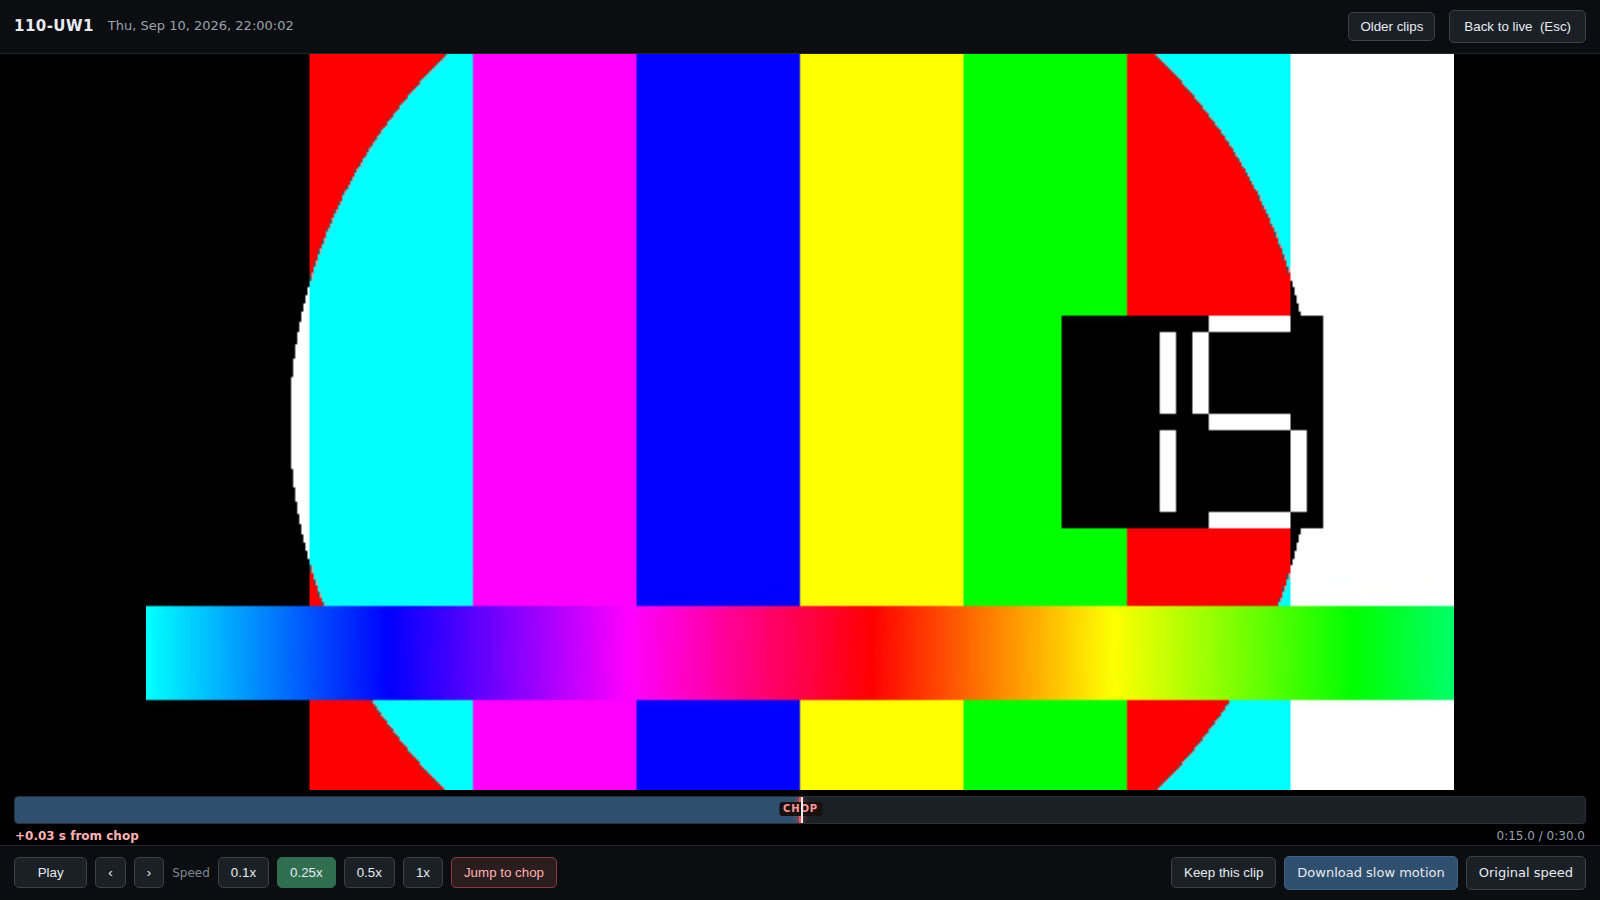
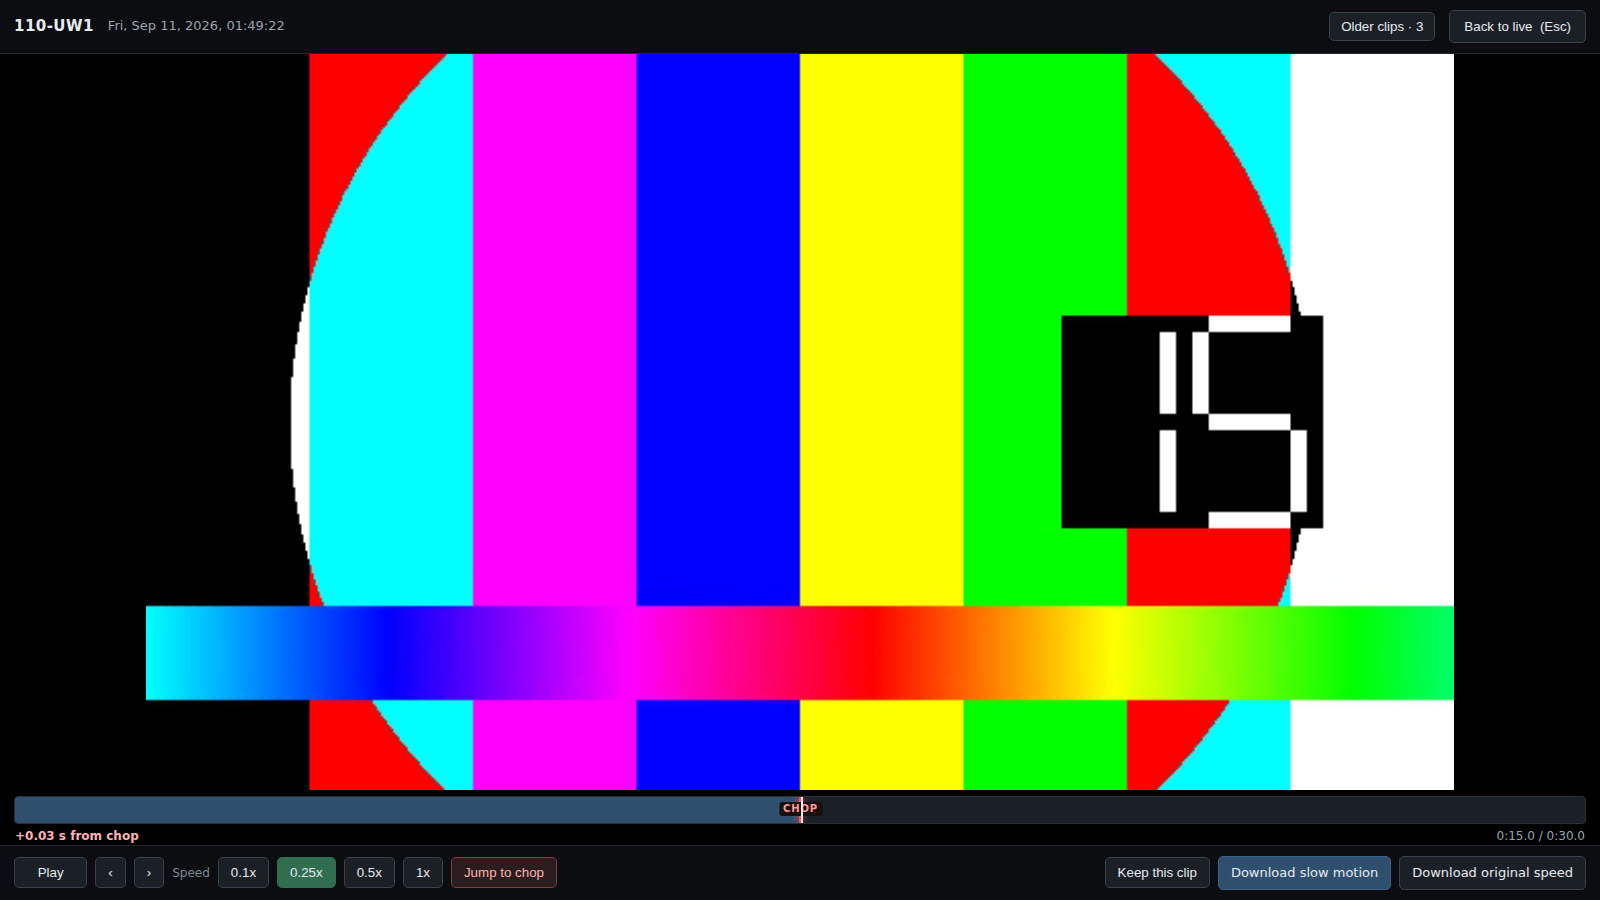
One button per tile, and label the download as a download
Two fixes from review.

"Original speed" sat directly after the 0.1x/0.25x/0.5x/1x row and read
as a fifth playback speed rather than a download. It now says "Download
original speed", matching the button beside it.

The tile's second button is gone. It was added at the same time as the
clip list and never appeared in the wall screenshots, so wall-layouts.md
described two buttons over images showing one -- and the tile bar has to
stay readable from across a room, which a second button works against.
Older clips are reached from inside the player, where you already are
once you have opened one; that button now carries the count, since it is
the only way in. The clip list also starts closed rather than depending
on which button opened the player.

Player screenshots regenerated. The wall screenshots were already correct
and are unchanged.

Changed region(s): [[0.6875, 0.9333, 0.9375, 0.9956], [0.0625, 0.0, 0.1875, 0.0311], [0.8438, 0.0, 0.875, 0.0622]]

diff --git a/aggregator/wall.py b/aggregator/wall.py
@@ -869,7 +869,7 @@ _PAGE = """<!doctype html>
       <span id="pspacer2" style="flex:1 1 auto"></span>
       <button class="keep" id="pkeep" type="button">Keep this clip</button>
       <a class="dl primary" id="pdlslow" href="#">Download slow motion</a>
-      <a class="dl" id="pdlorig" href="#">Original speed</a>
+      <a class="dl" id="pdlorig" href="#">Download original speed</a>
     </div>
   </div>
 %(html)s
@@ -896,14 +896,13 @@ function tile(n) {
     '<div class="badge"></div>' +
     '<div class="bar"><span class="name"></span>' +
     '<span class="meta"></span>' +
-    '<button class="chop" type="button"></button>' +
-    '<button class="browse" type="button" title="Browse older clips from ' +
-    'this camera">Older</button></div>';
+    '<button class="chop" type="button"></button></div>';
   el.querySelector('.name').textContent = n.clip_id;
+  // One button per tile, deliberately. Older clips are reachable from inside
+  // the player, where you already are once you have opened one -- a second
+  // button here would crowd a bar that has to be readable across a room.
   el.querySelector('.chop').addEventListener('click',
     () => openPlayer(n.name));
-  el.querySelector('.browse').addEventListener('click',
-    () => openPlayer(n.name, null, true));
   // An overlay holds the streams stopped, and tiles are built on the first
   // status poll -- which for /log lands AFTER the log has opened. Starting
   // the stream here would open an MJPEG connection per camera that nothing is
@@ -1009,9 +1008,6 @@ function render(s) {
     }
     el.querySelector('.meta').textContent = meta.join('  \u00b7  ');
     updateChopButton(el.querySelector('.chop'), n);
-    const browse = el.querySelector('.browse');
-    browse.textContent = n.clips_here ? 'Older \u00b7 ' + n.clips_here : 'Older';
-    browse.disabled = !n.clips_here;
 
     const img = el.querySelector('img');
     let down = el.querySelector('.down');
@@ -1052,21 +1048,13 @@ setInterval(refresh, %(poll_ms)d);
 
 
 _CSS = r"""
-  /* ---- added features: browse, keep, timeline, chop log ---------------- */
+  /* ---- added features: keep, timeline, clip list, chop log ------------- */
   #hspacer { flex:1 1 auto; }
   .nav { border:1px solid #3a434e; background:#1b2027; color:#e8ecf1;
          font:600 12px/1 inherit; padding:6px 11px; border-radius:5px;
          cursor:pointer; }
   .nav:hover { background:#273040; border-color:#4d5a6b; }
   .nav.on { background:#2f4f6f; border-color:#3d6288; }
-
-  /* Second tile button: deliberately quieter than "Last chop", which is the
-     one anyone standing at the wall actually presses. */
-  .browse { flex:0 0 auto; border:1px solid #3a434e; background:#161a20;
-            color:#b6bfca; font:600 12px/1 inherit; padding:7px 9px;
-            border-radius:5px; cursor:pointer; white-space:nowrap; }
-  .browse:hover:not(:disabled) { background:#273040; color:#e8ecf1; }
-  .browse:disabled { opacity:.35; cursor:default; }
 
   .kept { background:#5b45a0; color:#fff; padding:3px 9px; border-radius:99px;
           font-size:11px; font-weight:700; letter-spacing:.05em;
@@ -1439,6 +1427,9 @@ async function loadList(name) {
 function renderList(name) {
   const clips = listCache[name];
   if (!clips) return;                  // loadList is still on its way
+  // The only way into the list, so it says how much is behind it.
+  document.getElementById('plistbtn').textContent =
+    clips.length > 1 ? 'Older clips \u00b7 ' + (clips.length - 1) : 'Older clips';
   const rows = document.getElementById('plistrows');
   document.querySelector('#plist .lhead').textContent =
     clips.length + (clips.length === 1 ? ' clip from ' : ' clips from ') +
@@ -1493,20 +1484,22 @@ function loadClip(name, c) {
   renderList(name);
 }
 
-function openPlayer(name, file, showList) {
+function openPlayer(name, file) {
   const n = nodes[name];
   if (!n) return;
   // Metadata for the newest clip is already in the status snapshot; for any
   // other file it comes from the row that was clicked.
   const last = !file || file === n.last_clip_file;
   file = file || n.last_clip_file;
-  if (!file && !showList) return;
+  if (!file) return;
   playing = name;
   closeLog();
   stopLiveStreams(true);
+  // The list starts closed and is opened by the Older clips button: the point
+  // of the player is the clip, and the panel takes a fifth of the screen.
   const panel = document.getElementById('plist');
-  panel.hidden = !showList;
-  document.getElementById('plistbtn').classList.toggle('on', !!showList);
+  panel.hidden = true;
+  document.getElementById('plistbtn').classList.remove('on');
   document.getElementById('player').hidden = false;
   if (file)
     loadClip(name, {file: file,

diff --git a/aggregator/README.md b/aggregator/README.md
@@ -96,7 +96,7 @@ account can run `sha256sum` on `INCOMING_DIR`), while a verify returning a
 
 | Path | What |
 |---|---|
-| `/` | the wall — live tiles, one per node, each with **Last chop** and **Older** |
+| `/` | the wall — live tiles, one per node, each with a **Last chop** button |
 | `/log` | the same page with the chop log open; bookmarkable, and it starts no live streams |
 | `/clip/<file>` | play a clip (Range-capable, so the player can seek) |
 | `/clip/<file>?slowmo=1` | download a 4× slow-motion copy |
@@ -126,9 +126,10 @@ still comes straight from the nodes.
 
 ## Watching a chop
 
-Each tile carries two buttons: **Last chop**, showing that camera's most recent
-clip and its age, and **Older**, which opens the same player with the camera's
-clip list beside it. Either fills the screen, playing at **0.25×**.
+Each tile carries one button, showing that camera's most recent clip and its
+age. Click it and the clip fills the screen, playing at **0.25×**. Older clips
+from that camera are reached from inside the player — the tile bar has to stay
+readable across a room, so it keeps only the button people actually press.
 
 - **Speed** — 0.1× / 0.25× / 0.5× / 1×
 - **Pause** — the button, or the spacebar
@@ -137,7 +138,7 @@ clip list beside it. Either fills the screen, playing at **0.25×**.
 - **Keep this clip** — the button, or `k`
 - **Back to live** — the button, or Esc
 - **Download slow motion** — a 4× slow copy that plays slowly in *any* player
-- **Original speed** — the true-speed file
+- **Download original speed** — the true-speed file
 
 The bar under the video is the player's own rather than the browser's, so the
 **trigger instant can be marked on it** — the red `CHOP` line — and the readout
@@ -160,9 +161,10 @@ starts them at all.
 
 ### Older clips
 
-**Older** lists that camera's delivered clips newest first, each with its date
-and time, its age, its size, and a star if it is kept. Clicking one loads it
-without leaving the player. It is fed by `/clips?node=<name>`.
+**Older clips**, in the player's top bar, lists that camera's delivered clips
+newest first, each with its date and time, its age, its size, and a star if it
+is kept; the button carries the count. Clicking a row loads that clip without
+leaving the player. It is fed by `/clips?node=<name>`.
 
 ### The button's states
 

diff --git a/docs/wall-layouts.md b/docs/wall-layouts.md
@@ -97,9 +97,10 @@ cameras will run into.
 
 ## Watching a chop
 
-Every tile carries two buttons. **Last chop** shows that camera's most recent
-clip and its age; **Older** opens the same player with the camera's clip list
-alongside. Either fills the screen and plays at **0.25x**.
+Every tile carries one button, showing that camera's most recent clip and its
+age. Click it and the clip fills the screen, playing at **0.25x**. That camera's
+older clips are one more click away once you are in there — the tile bar has to
+stay readable from across a room, so it holds the button people actually press.
 
 ![The clip player, playing at quarter speed](images/player-01-playing.jpg)
 
@@ -114,7 +115,7 @@ Along the bottom:
 | **Jump to chop** | seeks to just before the trigger instant; `c` does the same |
 | **Keep this clip** | moves it where the purge cannot delete it; `k` does the same |
 | **Download slow motion** | a 4x slow copy that plays slowly in *any* player |
-| **Original speed** | the true-speed file |
+| **Download original speed** | the true-speed file |
 | **Back to live** (or Esc) | returns to the wall |
 
 Arrow keys seek a second at a time.
@@ -142,9 +143,10 @@ and it is the fallback for a node the aggregator has not reached yet.
 
 ### Older clips
 
-**Older** lists that camera's delivered clips, newest first, with the date and
-time of each, how long ago it was, its size, and a star if it is kept. Clicking
-one loads it without leaving the player.
+**Older clips**, in the player's top bar, lists that camera's delivered clips
+newest first — the date and time of each, how long ago it was, its size, and a
+star if it is kept. The button carries the count. Clicking a row loads that clip
+without leaving the player.
 
 ![The player with the camera's clip list open](images/player-03-older-clips.jpg)
 
